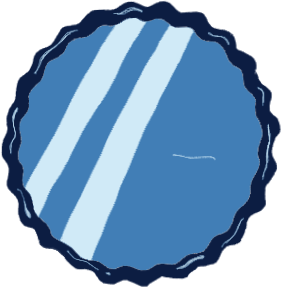
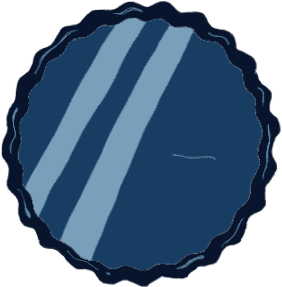
Limiter le reflet du miroir, fondre les raccords et prolonger l’étoile filante

diff --git a/index.html b/index.html
@@ -255,7 +255,7 @@ html[data-theme="night"] #nana-glow-stars-layer .nana-phosphor-star {opacity:1!i
       inset: 0;
       z-index: 3;
       pointer-events: none;
-      background: url("assets/room-redraw/marseille-penombre.webp?v=reflets6") center / 100% 100% no-repeat, url("assets/room-redraw/lumieres-nuit.webp?v=reflets6") center / 100% 100% no-repeat;
+      background: url("assets/room-redraw/marseille-penombre.webp?v=reflets6") center / 100% 100% no-repeat, url("assets/room-redraw/lumieres-nuit.webp?v=verre7") center / 100% 100% no-repeat;
     }
     html[data-theme="night"] #play-viewport.room-redraw-preview .poster-perspective-artworks .v2-night-posters {
       filter: brightness(.81) saturate(.88);
@@ -274,9 +274,9 @@ html[data-theme="night"] #nana-glow-stars-layer .nana-phosphor-star {opacity:1!i
     #window-life .v2-meteor.caught {opacity:0;pointer-events:none;}
     #window-life .v2-meteor.caught rect {pointer-events:none;}
     @keyframes v2-meteor-pass {
-      0%,71.99%,88.01%,100% {visibility:hidden;}
+      0%,71.99%,97.01%,100% {visibility:hidden;}
       72% {visibility:visible;transform:translate(0,0);}
-      88% {visibility:visible;transform:translate(-123px,64px);}
+      97% {visibility:visible;transform:translate(-225px,98px);}
     }
     @media(prefers-reduced-motion:reduce) {
       #window-life .v2-meteor {animation:none;visibility:visible;}
@@ -1185,7 +1185,7 @@ html body #work-desktop .desktop-folder .folder-tile.work-browser-tile{
 
 
 
-<script src="poster-fit.js?v=20261118-halo-affiches" defer></script><script src="mirror-placement.js?v=20261118-miroir" defer></script><script src="flower-lamp-placement.js?v=reflets6" defer></script>
+<script src="poster-fit.js?v=20261118-halo-affiches" defer></script><script src="mirror-placement.js?v=20261118-miroir" defer></script><script src="flower-lamp-placement.js?v=verre7" defer></script>
 <script src="fortune-cookie-placement.js?v=20261118-biscuit" defer></script>
 <script src="interactive-decor-outlines.js?v=20261106-unified-1" defer></script>
 <script src="glow-stars.js?v=20261118-retirer-etoile" defer></script>

diff --git a/flower-lamp-placement.js b/flower-lamp-placement.js
@@ -77,7 +77,7 @@ function mountWallDecoration(kind, redrawn) {
     if (redrawn && mirror) {
       const sprites=make('g');
       const night=image.cloneNode(false);
-      night.setAttribute('href','assets/room-redraw/miroir-nuit.webp');
+      night.setAttribute('href','assets/room-redraw/miroir-nuit.webp?v=verre7');
       night.classList.add('v2-mirror-night');
       image.classList.add('v2-mirror-day');
       sprites.append(image,night);
@@ -157,8 +157,17 @@ function mountWallDecoration(kind, redrawn) {
     surface.append(visual);
     if (mirror) {
       visual.id='v2-mirror-glass';
-      const reflection=make('use',{href:'#v2-mirror-glass',mask:'url(#v2-flower-poster-mask)',class:'v2-mirror-reflection','pointer-events':'none'});
-      surface.appendChild(reflection);
+      const gradient=make('radialGradient',{id:'v2-mirror-corner-gradient',cx:'.17',cy:'.17',r:'.35'});
+      for (const [offset,opacity] of [[0,.85],[.48,.48],[1,0]]) {
+        gradient.appendChild(make('stop',{offset,'stop-color':'white','stop-opacity':opacity}));
+      }
+      const corner=make('mask',{id:'v2-mirror-corner',maskContentUnits:'objectBoundingBox'});
+      corner.appendChild(make('rect',{width:1,height:1,fill:'url(#v2-mirror-corner-gradient)'}));
+      defs.append(gradient,corner);
+      const spill=make('g',{mask:'url(#v2-flower-poster-mask)','pointer-events':'none'});
+      const reflection=make('use',{href:'#v2-mirror-glass',mask:'url(#v2-mirror-corner)',class:'v2-mirror-reflection'});
+      spill.appendChild(reflection);
+      surface.appendChild(spill);
     }
     if (mirror && !editing) hit.setAttribute('data-open','dressup');
     surface.append(hit);
